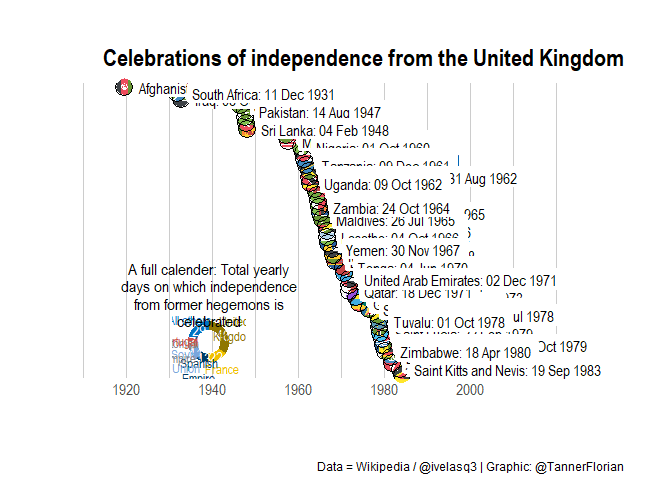
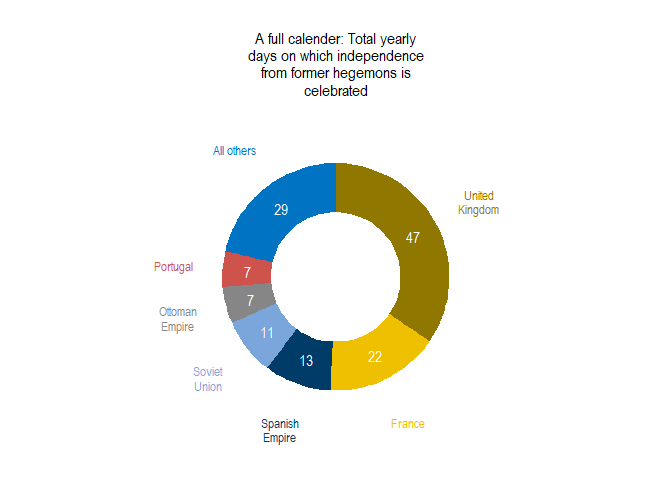
Update to include US and Cyprus

diff --git a/2021/2021-07-06 Independence Days/2021-07-06-Independence-Days.md b/2021/2021-07-06 Independence Days/2021-07-06-Independence-Days.md
@@ -61,13 +61,29 @@ holidays %>%
 
 ### United Kingdom
 
+#### Update Cyprus and USA
+
 ``` r
-p_uk <- holidays %>% 
+full_british_holidays <-holidays %>% 
+  mutate(country = str_replace(country, "Micronesia", "Federated States of Micronesia")) %>% 
   mutate(country_code = tolower(countrycode(country, origin = "country.name", destination = "iso2c")),
          country_name = str_replace(country, "Saint Vincent and the Grenadines", "St Vincent at. Grndns"),
          date_short = format(date_parsed, "%d %b %Y")) %>% 
-  filter(independence_from == "United Kingdom",
-         country %nin% c("Micronesia", "Cyprus")) %>% 
+  filter(!is.na(year_of_event), # This removes Cyprus "National Day"
+         independence_from %in% c("United Kingdom", "Egypt and the United Kingdom",
+                                  "Australia, New Zealand and the United Kingdom",
+                                  "Italy and United Kingdom",
+                                  "Kingdom of Great Britain",
+                                  "United Kingdom and France",
+                                  "United Kingdom and the British Mandate for Palestine",
+                                  "United Kingdom of Great Britain and Ireland",
+                                  "United Kingdom of Portugal, Brazil and the Algarves"))
+```
+
+#### Plot
+
+``` r
+p_uk <- full_british_holidays %>% 
   mutate(country = reorder_within(country, desc(date_parsed), independence_from)) %>% 
   ggplot(aes(y = country, x = date_parsed, country = country_code)) +
   geom_flag()+
@@ -90,10 +106,15 @@ p_uk <- holidays %>%
                           as.Date("1980-01-01"),
                           as.Date("2000-01-01")),
                date_labels = c("1920", "1940", "1960", "1980", "2000")) +
-  labs(x = "", y = "", title= "Celebrations of independence from the United Kingdom")
-```
+  labs(x = "", y = "", title= "Celebrations of independence from the United Kingdom") +
+  ## Manually add United States
+  geom_label(aes(x= as.Date("2000-01-01"), y = 50, 
+                 label = str_wrap("The US celebrate independence from the Kingdom of Great Britain on 04 July 1776", 15)), hjust = 0, size = 3.5) +
+  geom_flag(aes(x= as.Date("2020-01-01"), y = 52.8, country = "us")) +
+  geom_point(aes(x= as.Date("2020-01-01"), y = 52.8), shape =1, size = 6)
 
-    ## Warning in countrycode(country, origin = "country.name", destination = "iso2c"): Some values were not matched unambiguously: Micronesia
+# p_uk
+```
 
 ### France
 
@@ -178,7 +199,7 @@ holidays %>%
 ### How many days per year per colonizer
 
 ``` r
-independence_days <- data.frame(country = c("United Kingdom", "France", "Spanish Empire", "Soviet Union", "Ottoman Empire", "Portugal", "All others"), number = c(46,22,13,11,7,7,29) )
+independence_days <- data.frame(country = c("United Kingdom", "France", "Spanish Empire", "Soviet Union", "Ottoman Empire", "Portugal", "All others"), number = c(47,22,13,11,7,7,29) )
 ```
 
 ### Donut chart
@@ -211,17 +232,15 @@ p_donut <- ggplot(independence_days, aes(ymax=ymax, ymin=ymin, xmax=2.5, xmin=1,
 p_donut
 ```
 
-![](2021-07-06-Independence-Days_files/figure-gfm/unnamed-chunk-8-1.png)<!-- -->
-
-``` r
-p_uk_full <- p_uk + inset_element(p_donut, 0.01,0,0.5,0.5) + plot_annotation(caption = "Data = Wikipedia / @ivelasq3 | Graphic: @TannerFlorian") + theme(plot.caption = element_text(family = "Arial Narrow", vjust = 10))
-p_uk_full
-```
-
 ![](2021-07-06-Independence-Days_files/figure-gfm/unnamed-chunk-9-1.png)<!-- -->
 
 ``` r
-p_france_full <- p_france + inset_element(p_donut, 0.01,0,0.5,0.5) + plot_annotation(caption = "Data = Wikipedia / @ivelasq3 | Graphic: @TannerFlorian") + theme(plot.caption = element_text(family = "Arial Narrow", vjust = 10))
+p_uk_full <- p_uk + inset_element(p_donut, 0.01,0,0.5,0.5) + plot_annotation(caption = "Data = Wikipedia / @ivelasq3 | Graphic: @TannerFlorian") + theme(plot.caption = element_text(family = "Arial Narrow", vjust = 10))
+# p_uk_full
+```
+
+``` r
+p_france_full <- p_france + inset_element(p_donut, 0.01,0,0.5,0.5) + plot_annotation(caption = "Independence Days from the United Kingdom and those with British involvement\nData = Wikipedia / @ivelasq3 | Graphic: @TannerFlorian") + theme(plot.caption = element_text(family = "Arial Narrow", vjust = 10))
 p_france_full
 ```
 
@@ -231,10 +250,19 @@ p_france_full
 
     ## Warning: Removed 1 rows containing missing values (geom_label).
 
-![](2021-07-06-Independence-Days_files/figure-gfm/unnamed-chunk-10-1.png)<!-- -->
+![](2021-07-06-Independence-Days_files/figure-gfm/unnamed-chunk-11-1.png)<!-- -->
 
 ``` r
-ggsave(filename = "uk_independence.png", device = "png",plot = p_uk_full, units = "cm", height = 30, width = 16, limitsize = FALSE)
+ggsave(filename = "uk_independence.png", device = "png",plot = p_uk_full, units = "cm", height = 34, width = 16, limitsize = FALSE)
+```
+
+    ## Warning: Removed 2 rows containing missing values (geom_flag).
+
+    ## Warning: Removed 2 rows containing missing values (geom_point).
+
+    ## Warning: Removed 2 rows containing missing values (geom_label).
+
+``` r
 ggsave(filename = "france_independence.png", device = "png",plot = p_france, units = "cm", height = 20, width = 16, limitsize = FALSE)
 ```
 
@@ -273,7 +301,7 @@ holidays %>%
 
     ## Warning in countrycode(country, origin = "country.name", destination = "iso2c"): Some values were not matched unambiguously: Micronesia
 
-![](2021-07-06-Independence-Days_files/figure-gfm/unnamed-chunk-12-1.png)<!-- -->
+![](2021-07-06-Independence-Days_files/figure-gfm/unnamed-chunk-13-1.png)<!-- -->
 
 ### Spanish Empire
 
@@ -306,7 +334,7 @@ holidays %>%
 
     ## Warning in countrycode(country, origin = "country.name", destination = "iso2c"): Some values were not matched unambiguously: Micronesia
 
-![](2021-07-06-Independence-Days_files/figure-gfm/unnamed-chunk-13-1.png)<!-- -->
+![](2021-07-06-Independence-Days_files/figure-gfm/unnamed-chunk-14-1.png)<!-- -->
 
 ``` r
 sessionInfo()
